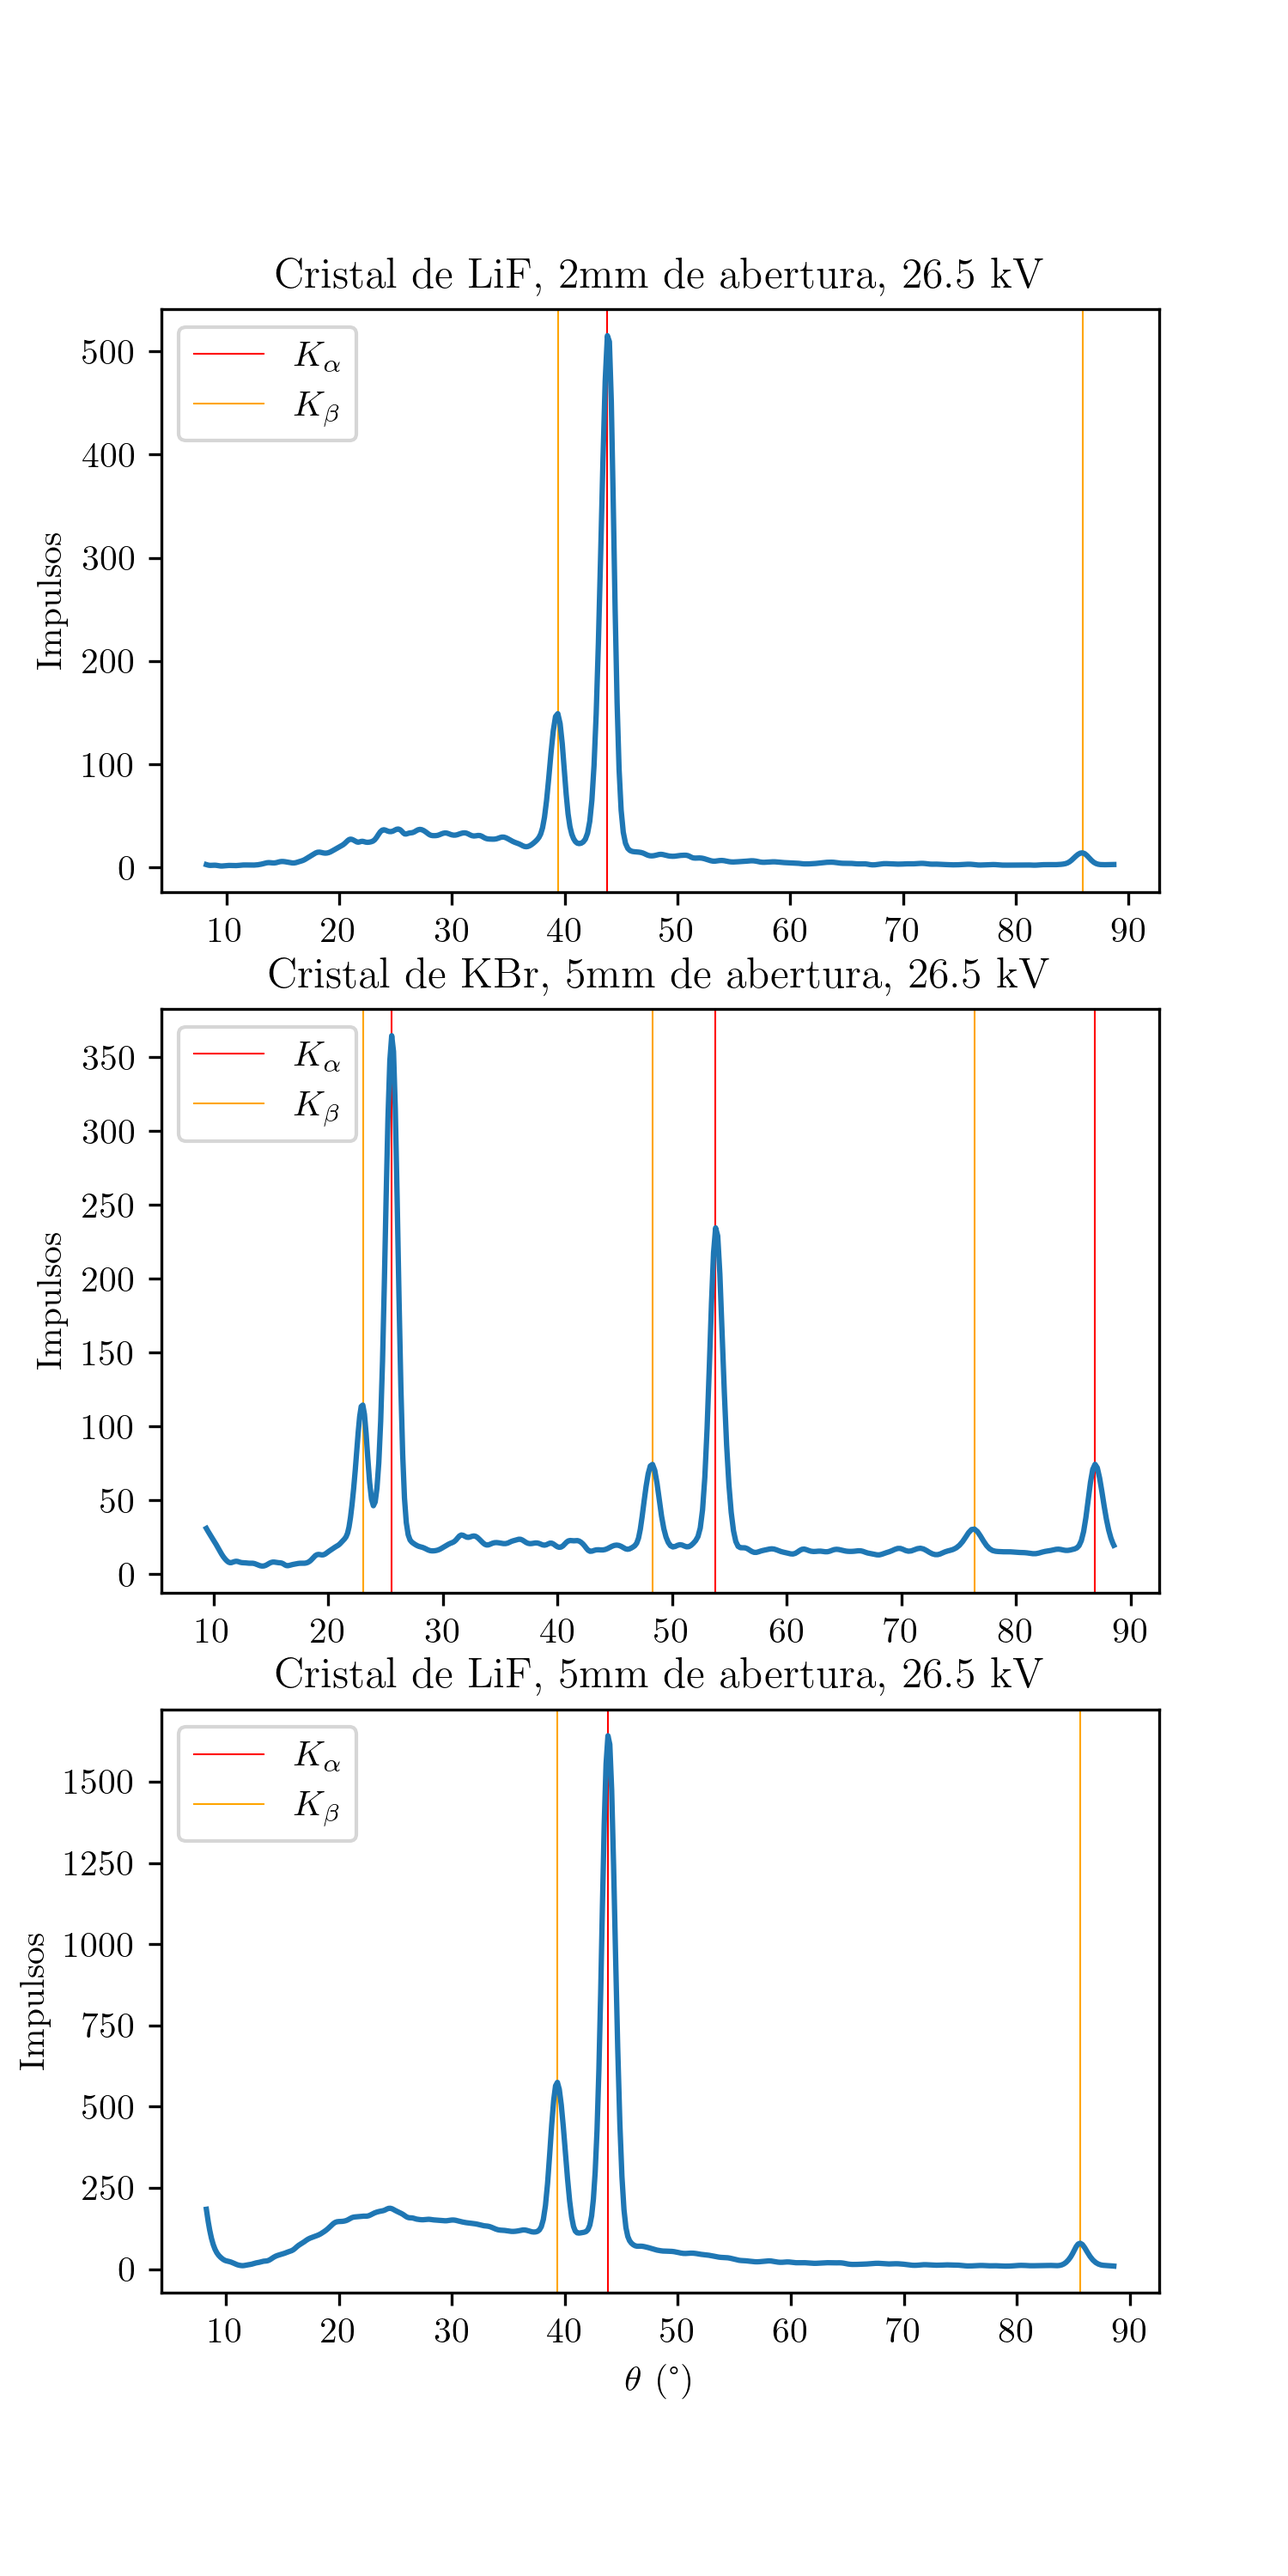
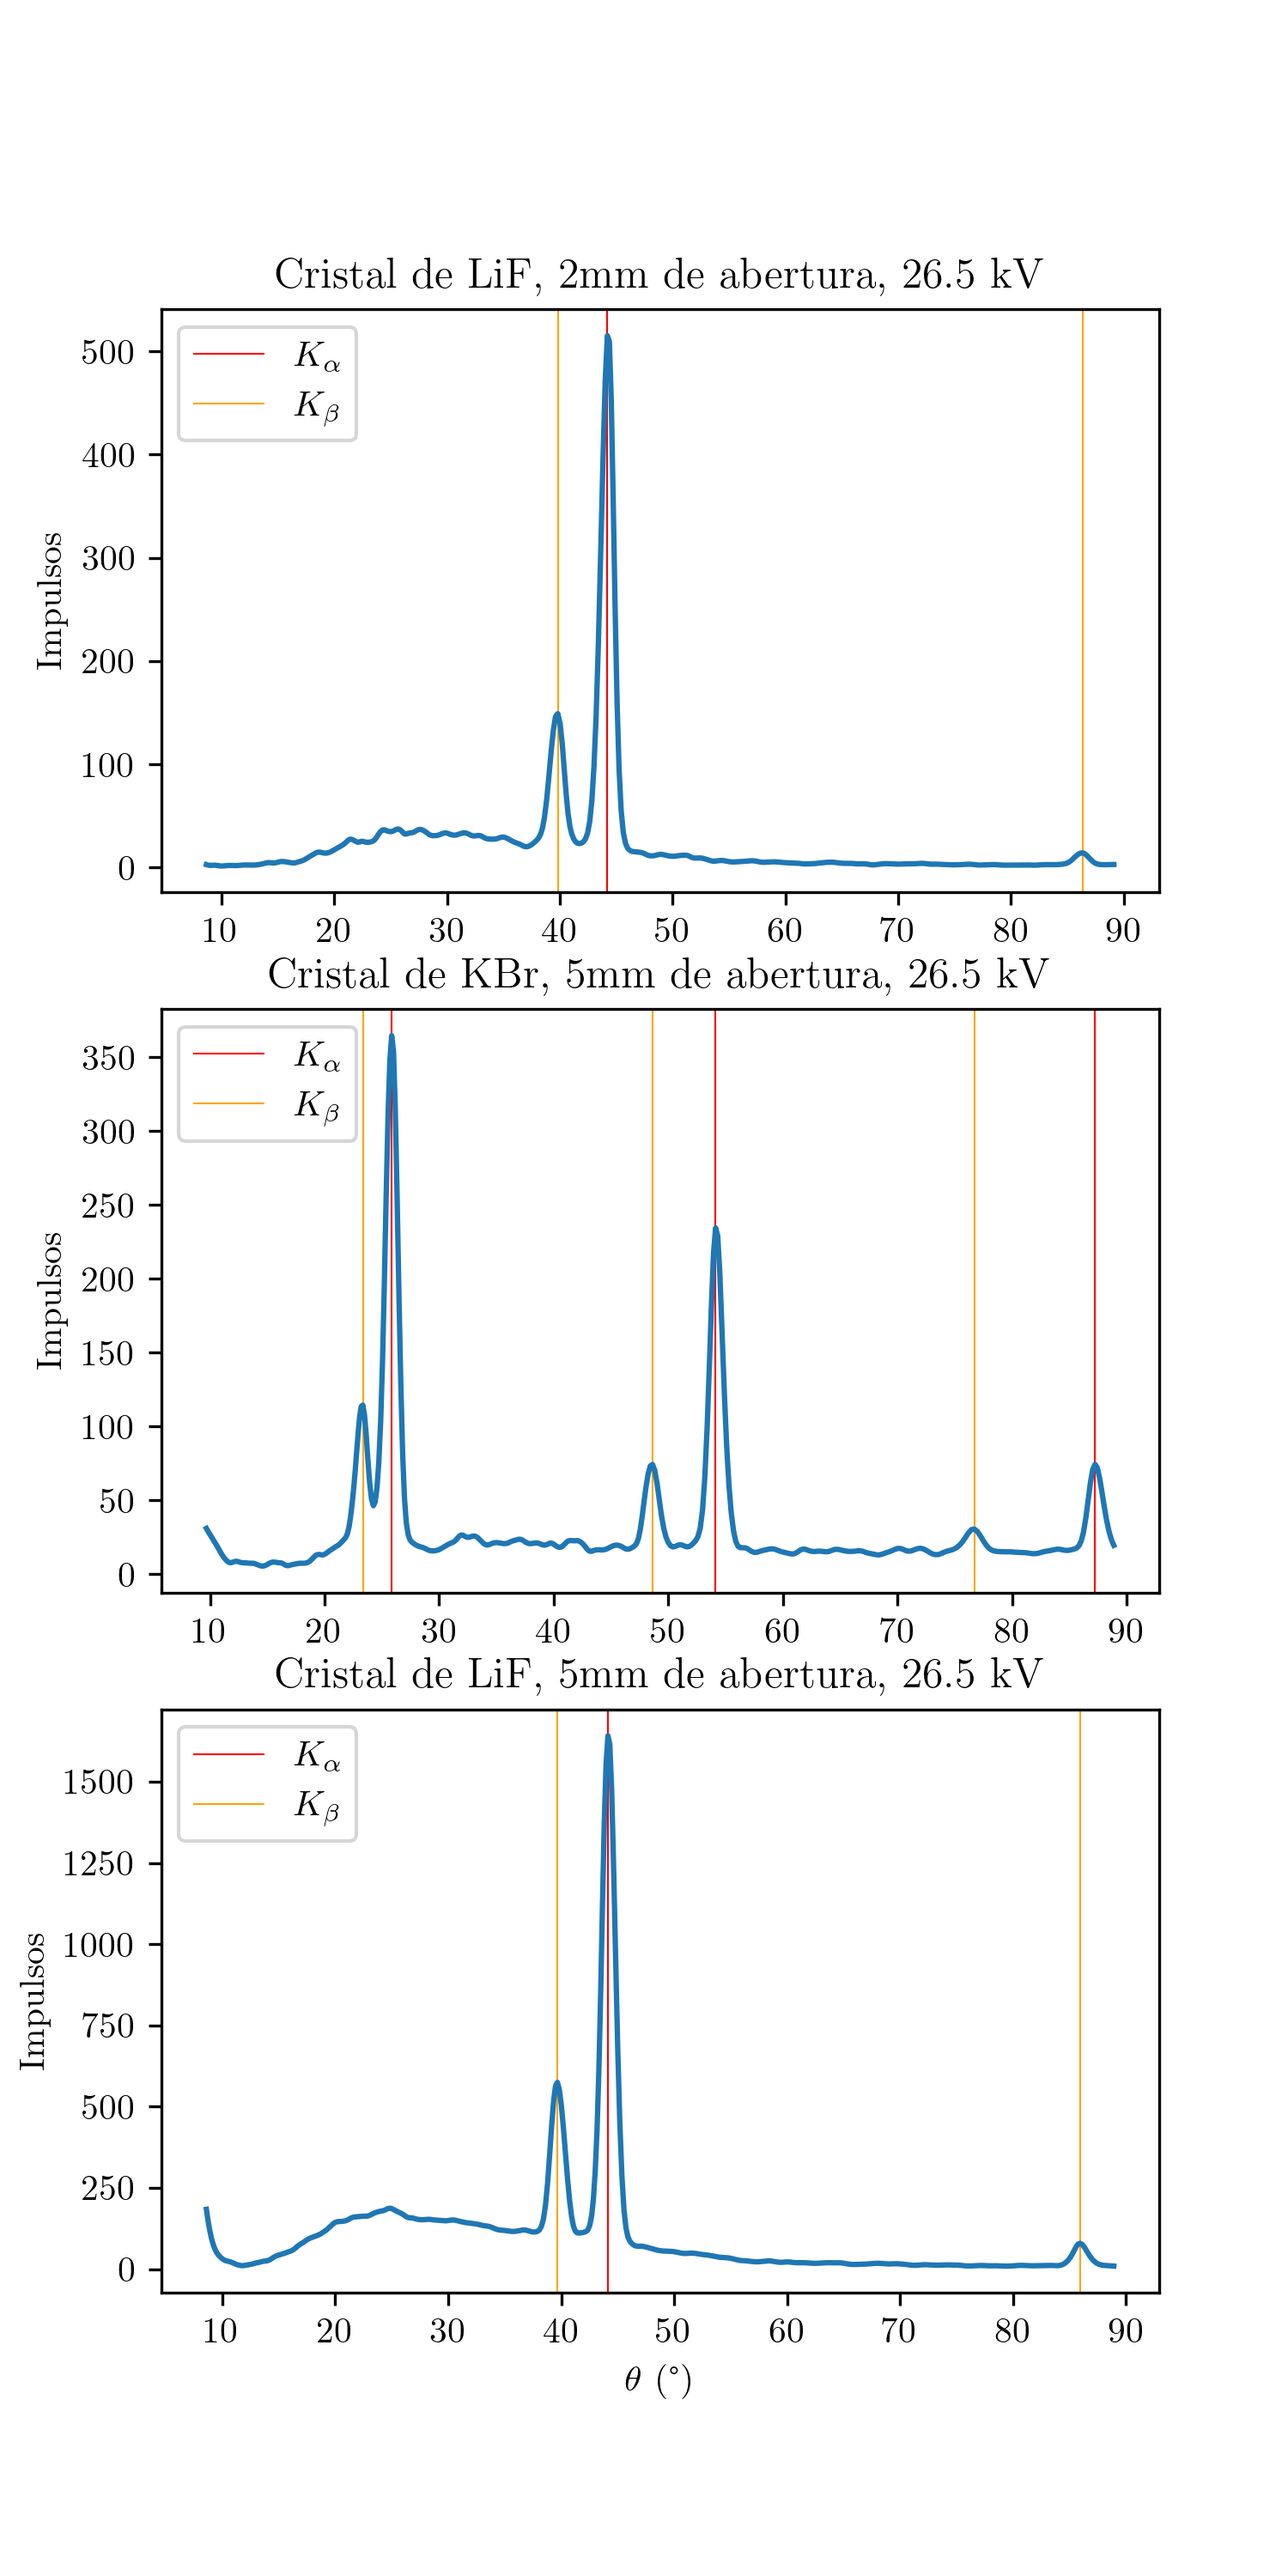
Correcting the angles and add stderr to exported data

diff --git a/spectrum.py b/spectrum.py
@@ -8,7 +8,8 @@ from scipy.ndimage import gaussian_filter1d
 from scipy.signal import find_peaks
 
 LIGHT_SPEED = 299792458
-CRYSTAL = 201.4e-12
+CRYSTAL_LIF = 201.4e-12
+CRYSTAL_KBR = 329.5e-12
 PLANCK_JS = 6.62607004e-34
 PLANCK_EV = 4.13566769e-15
 RYDBERG = 3.28989e15
@@ -28,6 +29,7 @@ def get_filename(path):
     return path.split("\\")[-1].split("/")[-1]
 
 
+# Importing files and sorting data
 files = glob.glob("data/data1/Tubo*.dat")
 crystals = [get_filename(file).split(" ")[4] for file in files]
 apertures = [
@@ -45,11 +47,15 @@ fig, axes = plt.subplots(3, 1)
 
 axes[-1].set(xlabel=r"$\theta$ (\si{\degree})")
 
+# Params to use in find_peaks for each dataset
 fp_params = (
     {"height": None, "threshold": 0.3, "width": 5},
     {"height": 30.0, "threshold": None, "width": None},
     {"height": None, "threshold": 2.0, "width": None},
 )
+
+# Adding correction to the angles based on the result of angular.py
+correction_df = pd.read_csv("results/angular_result.csv", decimal=",")
 
 for ax, crystal, aperture, voltage, df, params in zip(
     axes, crystals, apertures, voltages, dfs, fp_params
@@ -60,7 +66,14 @@ for ax, crystal, aperture, voltage, df, params in zip(
         ylabel="Impulsos",
     )
 
-    x_data = gaussian_filter1d(df.loc[:, "Angle"], sigma=2)
+    if aperture == 2.0:
+        correction = correction_df.loc[0, "center"]
+        angle_stderr = correction_df.loc[0, "center_stderr"]
+    if aperture == 5.0:
+        correction = correction_df.loc[1, "center"]
+        angle_stderr = correction_df.loc[1, "center_stderr"]
+
+    x_data = gaussian_filter1d(df.loc[:, "Angle"], sigma=2) + correction
     y_data = gaussian_filter1d(df.loc[:, "Impulses"], sigma=2)
 
     ax.plot(x_data, y_data)
@@ -79,25 +92,6 @@ for ax, crystal, aperture, voltage, df, params in zip(
     k_beta_indexes = [peak for i, peak in enumerate(peak_indexes) if i % 2 == 0]
     k_alpha_angles = x_data[k_alpha_indexes]
     k_beta_angles = x_data[k_beta_indexes]
-    one_over_sin_k_alpha = 1 / np.sin(np.radians(k_alpha_angles))
-    one_over_sin_k_beta = 1 / np.sin(np.radians(k_beta_angles))
-
-    k_alpha_energies_js = [
-        0.5 * PLANCK_JS * LIGHT_SPEED * one_over_sin / ((i + 1) * CRYSTAL)
-        for i, one_over_sin in enumerate(one_over_sin_k_alpha)
-    ]
-    k_alpha_energies_kev = [
-        5e-4 * PLANCK_EV * LIGHT_SPEED * one_over_sin / ((i + 1) * CRYSTAL)
-        for i, one_over_sin in enumerate(one_over_sin_k_alpha)
-    ]
-    k_beta_energies_js = [
-        0.5 * PLANCK_JS * LIGHT_SPEED * one_over_sin / ((i + 1) * CRYSTAL)
-        for i, one_over_sin in enumerate(one_over_sin_k_beta)
-    ]
-    k_beta_energies_kev = [
-        5e-4 * PLANCK_EV * LIGHT_SPEED * one_over_sin / ((i + 1) * CRYSTAL)
-        for i, one_over_sin in enumerate(one_over_sin_k_beta)
-    ]
 
     ax.vlines(
         k_alpha_angles,
@@ -117,28 +111,117 @@ for ax, crystal, aperture, voltage, df, params in zip(
         label=r"$K_{\beta}$",
     )
 
+    # Computing physical variables of interest
+    k_alpha_angles_stderr = np.full(k_alpha_angles.size, angle_stderr)
+    k_beta_angles_stderr = np.full(k_beta_angles.size, angle_stderr)
+    k_alpha_bragg = k_alpha_angles / 2
+    k_beta_bragg = k_beta_angles / 2
+    k_alpha_bragg_stderr = k_alpha_angles_stderr / 2
+    k_beta_bragg_stderr = k_beta_angles_stderr / 2
+    k_alpha_bragg_rad = np.radians(k_alpha_bragg)
+    k_beta_bragg_rad = np.radians(k_beta_bragg)
+    k_alpha_bragg_rad_stderr = np.radians(k_alpha_bragg_stderr)
+    k_beta_bragg_rad_stderr = np.radians(k_beta_bragg_stderr)
+
+    one_over_sin_k_alpha = 1 / np.sin(k_alpha_bragg_rad)
+    one_over_sin_k_beta = 1 / np.sin(k_beta_bragg_rad)
+
+    one_over_sin_k_alpha_stderr = (
+        k_alpha_bragg_rad_stderr
+        * np.cos(k_alpha_bragg_rad)
+        / np.sin(k_alpha_bragg_rad) ** 2
+    )
+    one_over_sin_k_beta_stderr = (
+        k_beta_bragg_rad_stderr
+        * np.cos(k_beta_bragg_rad)
+        / np.sin(k_beta_bragg_rad) ** 2
+    )
+
+    if crystal == "LiF":
+        CRYSTAL = CRYSTAL_LIF
+    if crystal == "KBr":
+        CRYSTAL = CRYSTAL_KBR
+
+    k_alpha_energies_js = [
+        0.5 * PLANCK_JS * LIGHT_SPEED * one_over_sin / ((i + 1) * CRYSTAL)
+        for i, one_over_sin in enumerate(one_over_sin_k_alpha)
+    ]
+    k_alpha_energies_js_stderr = [
+        0.5 * PLANCK_JS * LIGHT_SPEED * one_over_sin / ((i + 1) * CRYSTAL)
+        for i, one_over_sin in enumerate(one_over_sin_k_alpha_stderr)
+    ]
+
+    k_alpha_energies_kev = [
+        5e-4 * PLANCK_EV * LIGHT_SPEED * one_over_sin / ((i + 1) * CRYSTAL)
+        for i, one_over_sin in enumerate(one_over_sin_k_alpha)
+    ]
+    k_alpha_energies_kev_stderr = [
+        5e-4 * PLANCK_EV * LIGHT_SPEED * one_over_sin / ((i + 1) * CRYSTAL)
+        for i, one_over_sin in enumerate(one_over_sin_k_alpha_stderr)
+    ]
+
+    k_beta_energies_js = [
+        0.5 * PLANCK_JS * LIGHT_SPEED * one_over_sin / ((i + 1) * CRYSTAL)
+        for i, one_over_sin in enumerate(one_over_sin_k_beta)
+    ]
+    k_beta_energies_js_stderr = [
+        0.5 * PLANCK_JS * LIGHT_SPEED * one_over_sin / ((i + 1) * CRYSTAL)
+        for i, one_over_sin in enumerate(one_over_sin_k_beta_stderr)
+    ]
+
+    k_beta_energies_kev = [
+        5e-4 * PLANCK_EV * LIGHT_SPEED * one_over_sin / ((i + 1) * CRYSTAL)
+        for i, one_over_sin in enumerate(one_over_sin_k_beta)
+    ]
+    k_beta_energies_kev_stderr = [
+        5e-4 * PLANCK_EV * LIGHT_SPEED * one_over_sin / ((i + 1) * CRYSTAL)
+        for i, one_over_sin in enumerate(one_over_sin_k_beta_stderr)
+    ]
+
     ax.set(ylim=ylim)
     ax.legend(loc="upper left")
 
+    # Puting data of interest in a DataFrame to export as a csv
     result_df = pd.DataFrame(
         [
             k_beta_angles,
+            k_beta_angles_stderr,
+            k_beta_bragg,
+            k_beta_bragg_stderr,
             k_beta_energies_js,
+            k_beta_energies_js_stderr,
             k_beta_energies_kev,
+            k_beta_energies_kev_stderr,
             k_alpha_angles,
+            k_alpha_angles_stderr,
+            k_alpha_bragg,
+            k_alpha_bragg_stderr,
             k_alpha_energies_js,
+            k_alpha_energies_js_stderr,
             k_alpha_energies_kev,
+            k_alpha_energies_kev_stderr,
         ],
         index=(
             "k_beta_angles",
+            "k_beta_angles_stderr",
+            "k_beta_bragg",
+            "k_beta_bragg_stderr",
             "k_beta_energies_js",
+            "k_beta_energies_js_stderr",
             "k_beta_energies_kev",
+            "k_beta_energies_kev_stderr",
             "k_alpha_angles",
+            "k_alpha_angles_stderr",
+            "k_alpha_bragg",
+            "k_alpha_bragg_stderr",
             "k_alpha_energies_js",
+            "k_alpha_energies_js_stderr",
             "k_alpha_energies_kev",
+            "k_alpha_energies_kev_stderr",
         ),
     )
 
+    # Exporting it to results directory
     result_df.transpose().to_csv(
         f"results/spectre_{crystal}_{aperture}mm_{voltage}kV.csv",
         decimal=",",
